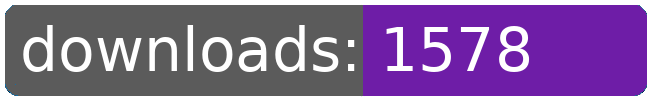
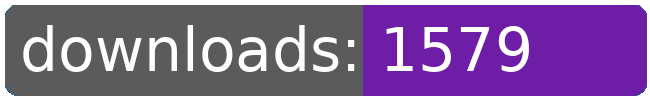
dl log written

Changed region(s): [[0.7692, 0.27, 0.8308, 0.72]]

diff --git a/README.md b/README.md
@@ -21,8 +21,8 @@
 		<td>1509</td>
 		<td>1534</td>
 		<td>1564</td>
-		<td>1578</td>
-		<td>+ 14</td>
+		<td>1579</td>
+		<td>+ 15</td>
 	</tr>
 	<tr>
 		<td>aberrant.kahet.outfitter</td>
@@ -252,8 +252,8 @@
 		<td></td>
 		<td></td>
 		<td></td>
-		<td>22164</td>
-		<td>295</td>
+		<td>22165</td>
+		<td>296</td>
 	</tr>
 </table>
 </sub></sup>
@@ -311,8 +311,8 @@
 		<td>1509</td>
 		<td>1534</td>
 		<td>1564</td>
-		<td>1578</td>
-		<td>+ 14</td>
+		<td>1579</td>
+		<td>+ 15</td>
 	</tr>
 	<tr>
 		<td>purchase.bactrian</td>
@@ -509,8 +509,8 @@
 		<td></td>
 		<td></td>
 		<td></td>
-		<td>22164</td>
-		<td>295</td>
+		<td>22165</td>
+		<td>296</td>
 	</tr>
 </table>
 </sub></sup>
